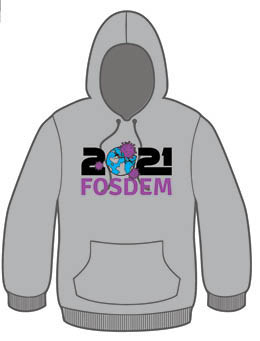
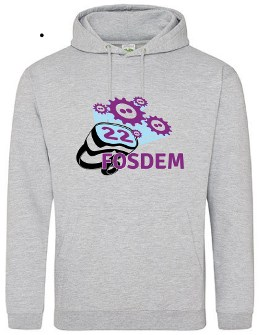
Add 2022 T-shirts and hoodies.

diff --git a/content/tshirts.html b/content/tshirts.html
@@ -4,6 +4,83 @@ navtitle: T-shirts
 ---
 <div class="developers-block">
     <div class="text-block">
-	<p>More info soon.</p>
+        <h4>T-shirts and hoodies</h4>
+        <table class="table">
+            <thead>
+                <tr>
+                    <th></th>
+                    <th>€25</th>
+                    <th>€50</th>
+                </tr>
+            </thead>
+            <tbody>
+                <tr>
+                    <td><img src="asset:t-shirt" alt="2022 T-shirt design." style="max-width: 4em;" /></td>
+                    <td><img src="asset:favicon-32x32" alt="€25 = T-shirt" /></td>
+                    <td></td>
+                </tr>
+                <tr>
+                    <td><img src="asset:hoodie" alt="2022 hoodie design." style="max-width: 4em;" /></td>
+                    <td></td>
+                    <td><img src="asset:favicon-32x32" alt="€50 = hoodie" /></td>
+                </tr>
+            </tbody>
+        </table>
+        <p>
+            We have T-shirts and hoodies again! As each year, they are a special limited edition to show our gratitude for
+            you donating to FOSDEM. However, we are having a virtual conference this time, so the T-shirt process is a
+            bit different from normal. For example, you don't have to queue and they won't run out this year.
+        </p>
+        <p>If you order by Sunday 16th January we will try to ship your order before the event so there is a chance it will arrive in time for you to wear it on camera!
+        <p>
+            You can get them till the end of the weekend after FOSDEM 2022 (2022-02-13). Don't miss out!
+        </p>
+        <h5>T-shirts</h5>
+        <img src="asset:t-shirt" alt="2022 T-shirt design." style="max-width: 80%; margin-top: 1em; margin-bottom: 1em;" />
+        <p>
+            The t-shirt design this year is grey with the FOSDEM 2022 logo. They're yours in exchange for a donation of
+            €25.
+        </p>
+        <p>
+            T-shirts are available in <i>non-fitted</i> (<i>male</i>) and <i>fitted</i> (<i>female</i>) for in sizes
+            S, M, L, XL, XXL and XXXL.
+        </p>
+        <p>
+            Get them from <a href="https://treasure.fosdem.org/shop/product/exclusive-fosdem-2022-t-shirt-11">here (EU)</a>
+            or <a href="https://row.treasure.fosdem.org/shop/product/exclusive-fosdem-2022-t-shirt-12">here (outside of the EU)</a>.
+        </p>
+        <h5>Hoodies</h5>
+        <img src="asset:hoodie" alt="2022 hoodie design." style="max-width: 80%; margin-top: 1em; margin-bottom: 1em;" />
+        <p>
+            The hoodie design this year is grey with the FOSDEM 2022 logo. They're yours in exchange for a donation of
+            €50.
+        </p>
+        <p>
+            Hoodies are available in S, M, L, XL, XXL and XXXL.
+        </p>
+        <p>
+            Get them from <a href="https://treasure.fosdem.org/shop/product/exclusive-fosdem-2022-hoodie-8">here (EU)</a>
+            or <a href="https://row.treasure.fosdem.org/shop/product/exclusive-fosdem-2022-hoodie-13">here (outside of the EU)</a>.
+        </p>
+        <h5>Getting them</h5>
+        <p>
+            For the online edition, we partnered with an print-on-demand provider, which means that they won't run out at Saturday noon,
+            as they normally do.
+         </p>
+         <p>
+             Visitors from the EU can go to <a href="https://treasure.fosdem.org">treasure.fosdem.org</a>, offering shipping to the EU.
+         </p>
+         <p>
+             If you want to ship to a destionation outside of the EU, go to <a href="https://row.treasure.fosdem.org">row.treasure.fosdem.org</a>.
+         </p>
+         <p>
+             If you can't find your country in either of the shops or you can't use the provided payment methods, send an e-mail
+             to <i>treasure-at-fosdem-dot-org</i> with the amount and the size of the hoodies/T-shirts you wish to order.
+         </p>
+         <h6>Delivery fees</h6>
+         <p>
+             The delivery fee depends on the country you wish to ship to. There are several tiers depending on what country you select.
+             Unfortunately you can't see them before you select a country.
+         </p>
     </div>
 </div>
